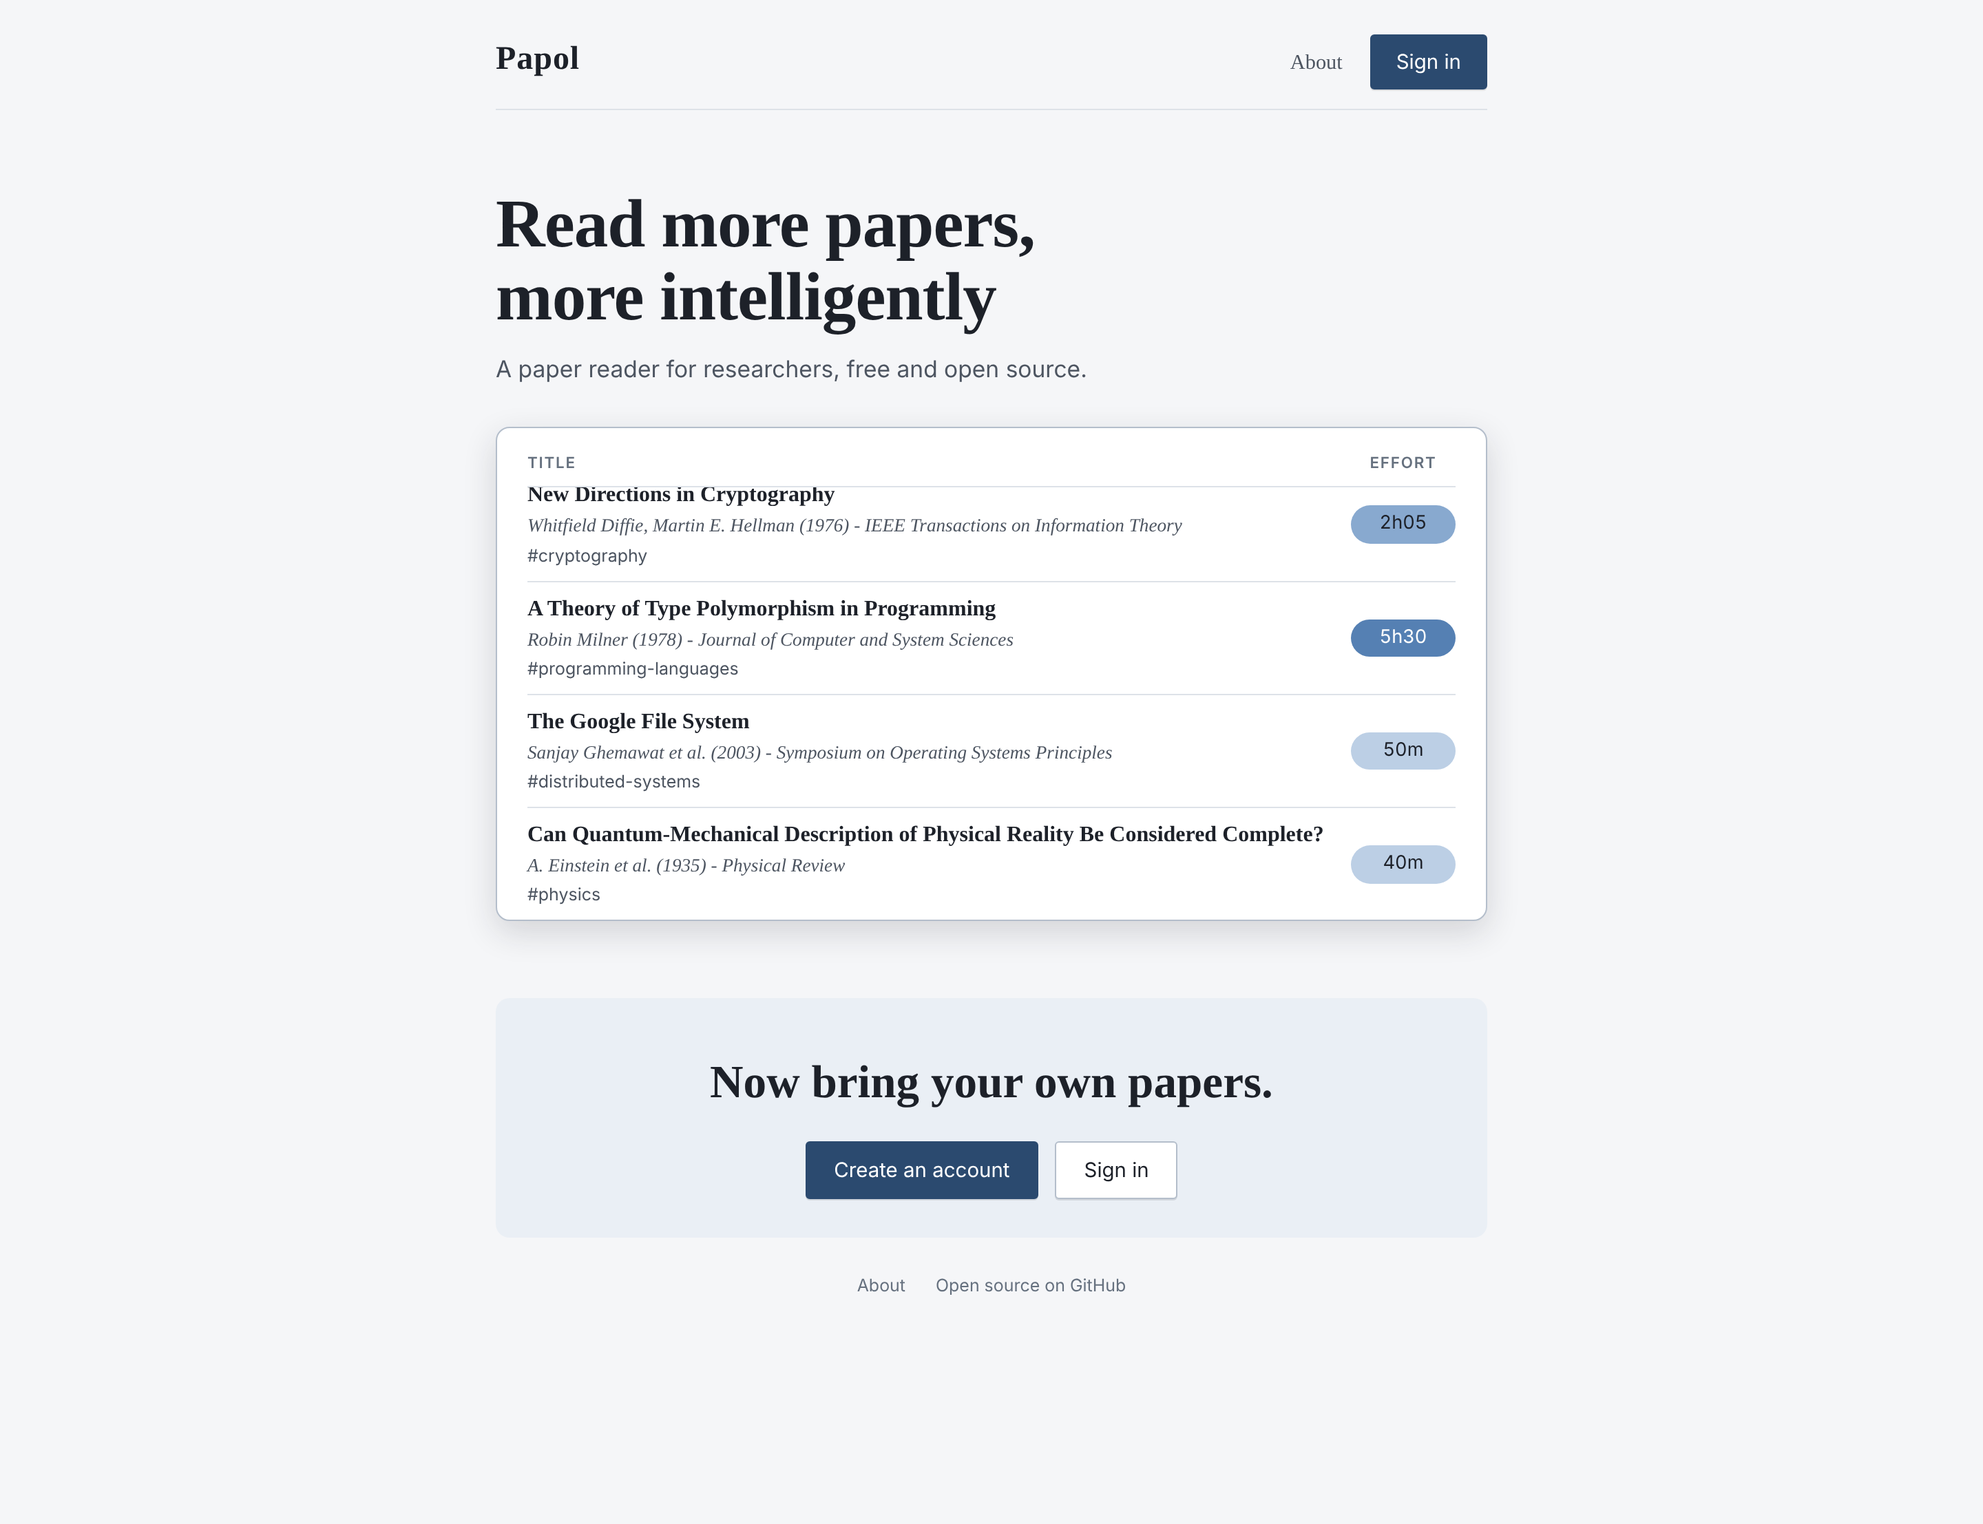
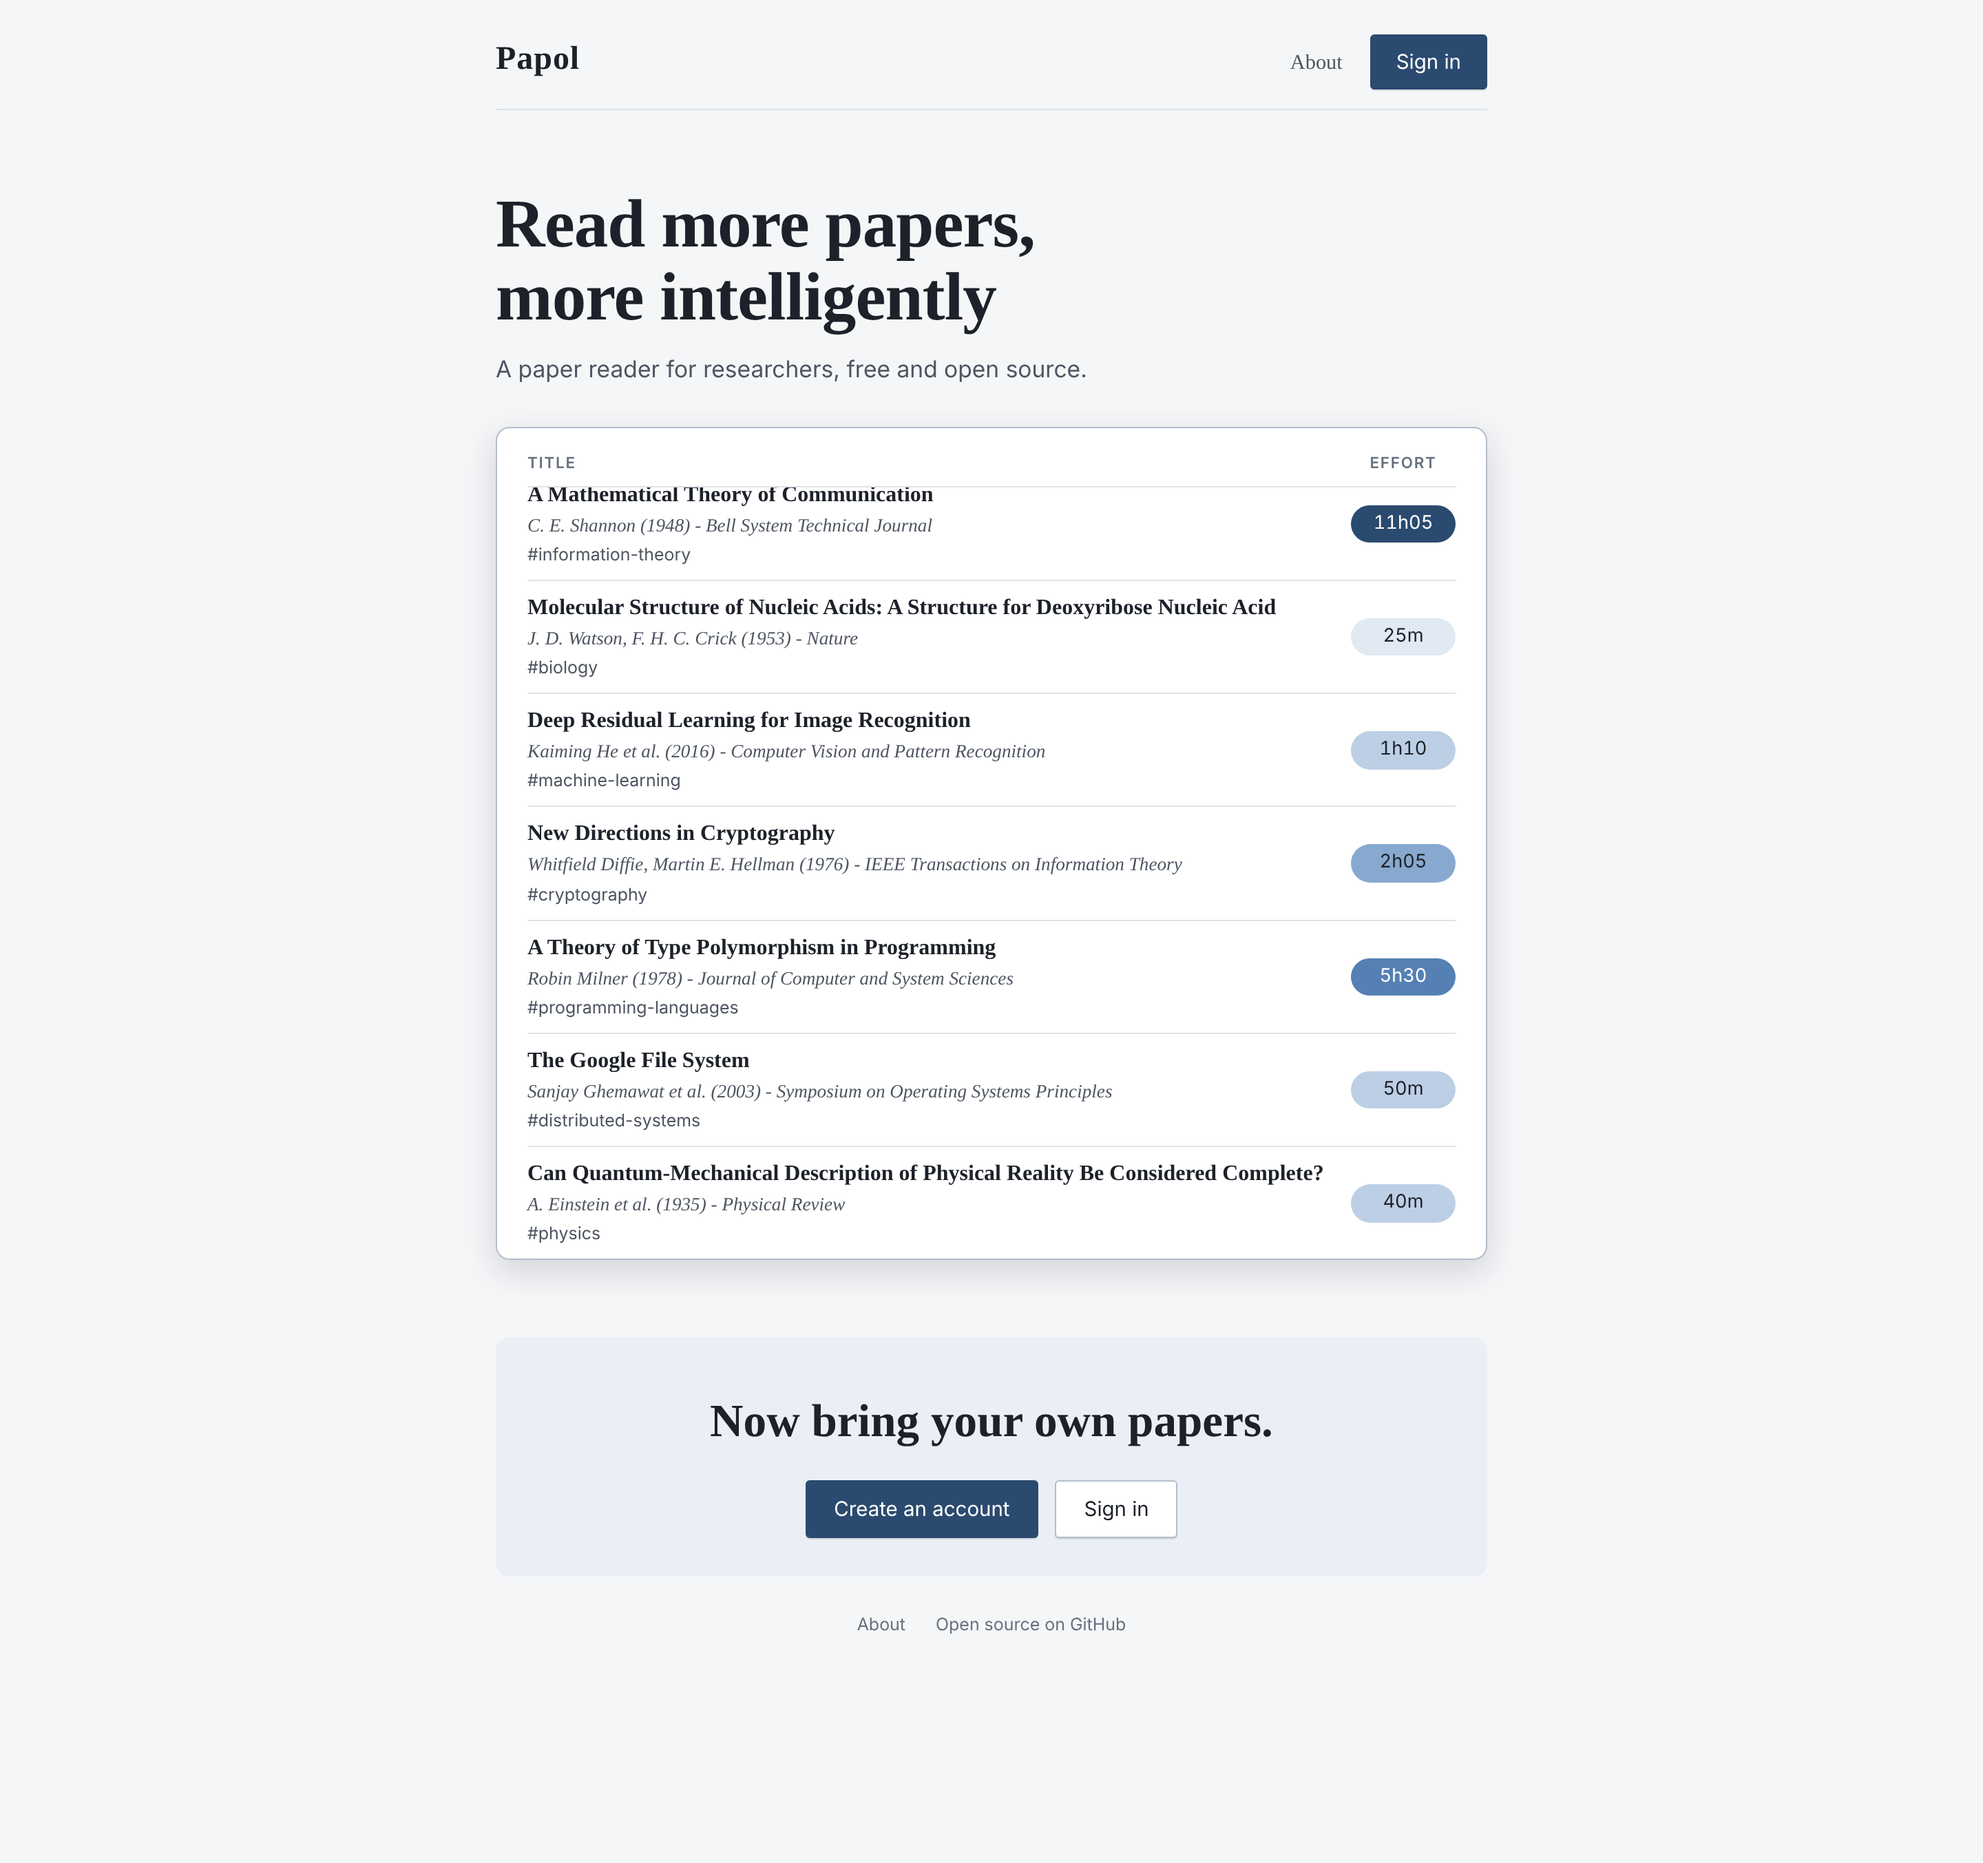
The landing list opens on six and a half papers
Claude-Session: https://claude.ai/code/session_01PQZzMUS3tB21Bk48RQwY8X

diff --git a/shared/applicationStyles.js b/shared/applicationStyles.js
@@ -3822,8 +3822,8 @@ a.button:hover {
   box-shadow: var(--shadow-md);
 }
 .landing-nook-head { display: flex; align-items: baseline; justify-content: space-between; gap: 12px; padding-bottom: 10px; border-bottom: 1px solid var(--line); }
-/* The list scrolls in the window, which opens tall enough for three papers
-   and half of the fourth. Its padding keeps the first title's ring and the
+/* The list scrolls in the window, which opens tall enough for six papers
+   and half of the seventh. Its padding keeps the first title's ring and the
    tag over it inside what it clips. */
 .landing-nook-list { overflow-y: auto; overscroll-behavior: contain; margin: 0 -8px; padding: 26px 8px 0; }
 .landing-nook-list:focus-visible { outline: 2px solid var(--focus); outline-offset: 2px; }

diff --git a/frontend/src/components/HomeNook.jsx b/frontend/src/components/HomeNook.jsx
@@ -67,15 +67,14 @@ const PAPERS = [
 
 // How many papers show before the list is scrolled: the last one cut in
 // half, which says there are more under it.
-const SHOWN = 3.5;
+const SHOWN = 6.5;
 
 export default function HomeNook({ onOpen }) {
   const listRef = useRef(null);
   const [height, setHeight] = useState(null);
 
-  // Rows are as tall as their titles wrap, so the height that shows three
-  // and a half of them is measured, and measured again when the width
-  // changes.
+  // Rows are as tall as their titles wrap, so the height that shows that
+  // many of them is measured, and measured again when the width changes.
   useLayoutEffect(() => {
     const list = listRef.current;
     if (!list) return undefined;
